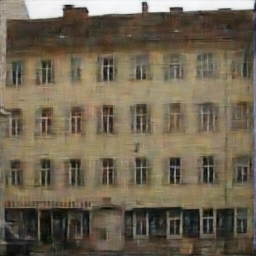
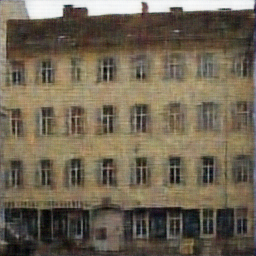
2_5train 1_4 compile test

diff --git a/vai_unet/2_vitis_ai_unet/5_vai_container/protype5/train.py b/vai_unet/2_vitis_ai_unet/5_vai_container/protype5/train.py
@@ -14,7 +14,7 @@ import torch
 from models import *
 
 BATCH_SIZE = 64
-EPOCHS = 10
+EPOCHS = 200
 NOISE_FACTOR = 0.2
 LEARNING_RATE = 0.001
 
